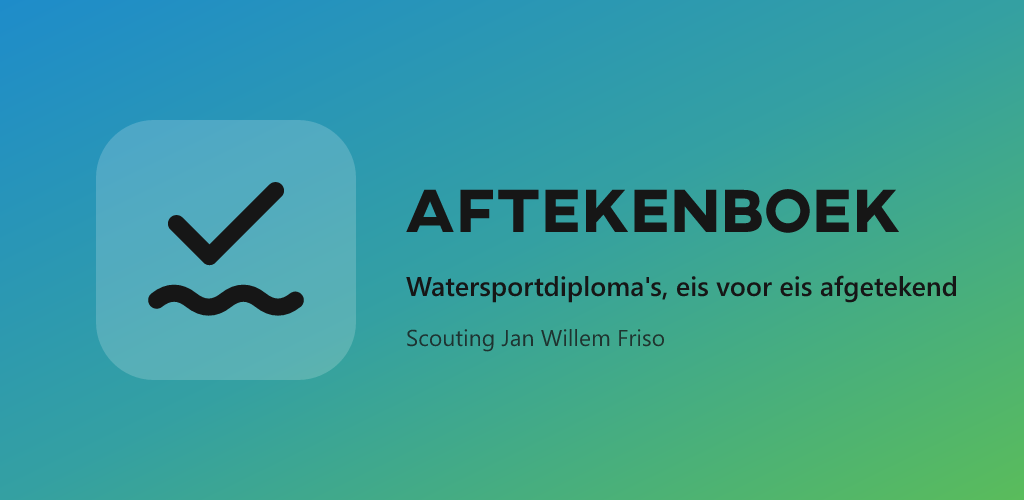
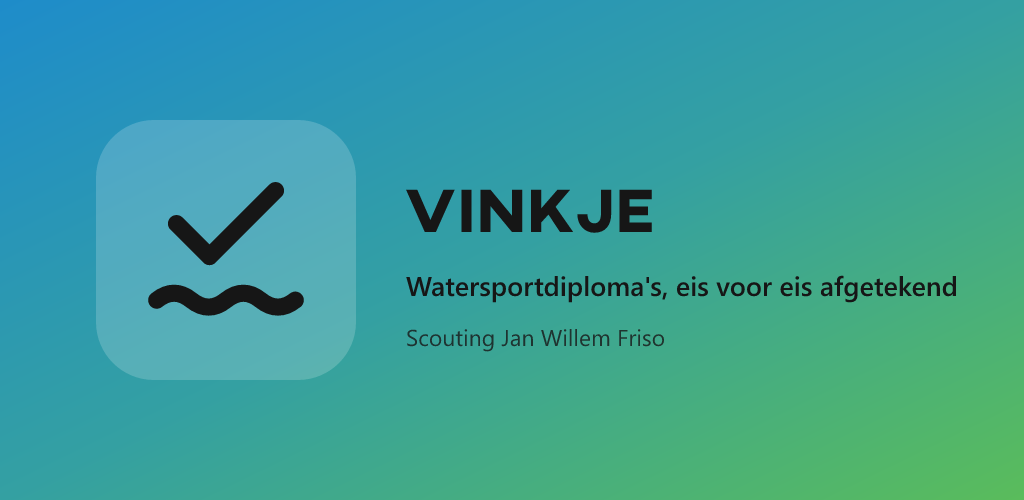
De app heet nu Vinkje
Alleen de naam die mensen zien. App-id, linkschema, Expo-project en opslagsleutels
blijven aftekenboek: die liggen vast bij de stores of in verstuurde mails.

Changed region(s): [[0.375, 0.36, 0.875, 0.48]]

diff --git a/admin/index.html b/admin/index.html
@@ -3,7 +3,7 @@
 <head>
 <meta charset="utf-8">
 <meta name="viewport" content="width=device-width, initial-scale=1">
-<title>Aftekenboek — beheer</title>
+<title>Vinkje — beheer</title>
 <style>
   :root {
     --bg: #f4f5f3; --card: #fff; --border: #e1e3df; --text: #161a17;
@@ -85,7 +85,7 @@
 
 <div id="signin">
   <div class="card">
-    <h2>Aftekenboek</h2>
+    <h2>Vinkje</h2>
     <p class="dim" id="signin-lead">Beheerpagina. Log in met je account.</p>
 
     <div id="name-row" class="hidden" style="margin-top:12px"><label for="name">Naam</label>
@@ -143,7 +143,7 @@
 
 <div id="app" class="hidden">
   <header>
-    <h1>Aftekenboek — beheer</h1>
+    <h1>Vinkje — beheer</h1>
     <nav>
       <button data-tab="leden" aria-current="true">Leden</button>
       <button data-tab="codes">Codes</button>

diff --git a/src/app/sign-in.tsx b/src/app/sign-in.tsx
@@ -99,7 +99,7 @@ export default function SignIn() {
       <PlainScreen>
         <View style={{ gap: space.xs, marginTop: space.xxl, marginBottom: space.lg }}>
           <Txt variant="title">
-            {mode === 'reset' ? 'Wachtwoord vergeten' : 'Aftekenboek'}
+            {mode === 'reset' ? 'Wachtwoord vergeten' : 'Vinkje'}
           </Txt>
           <Txt dim>{lead}</Txt>
         </View>

diff --git a/docs/privacybeleid.md b/docs/privacybeleid.md
@@ -1,15 +1,15 @@
-# Privacybeleid Aftekenboek
+# Privacybeleid Vinkje
 
-*Laatst bijgewerkt: 21 september 2026*
+*Laatst bijgewerkt: 22 september 2026*
 
-Aftekenboek is een app waarmee instructeurs van Scouting Jan Willem Friso bijhouden
+Vinkje is een app waarmee instructeurs van Scouting Jan Willem Friso bijhouden
 hoe ver vaarders zijn met hun watersportdiploma's. In dit privacybeleid staat welke
 gegevens de app gebruikt, waarom, wie ze kan zien, hoe lang ze bewaard worden en wat
 je rechten zijn.
 
 ## Wie is verantwoordelijk
 
-Scouting Jan Willem Friso is verantwoordelijk voor de gegevens in Aftekenboek.
+Scouting Jan Willem Friso is verantwoordelijk voor de gegevens in Vinkje.
 
 - Adres: Toepad 1, 2921 AZ Krimpen aan den IJssel
 - Vragen over privacy: **info@scoutingjwf.nl**
@@ -44,7 +44,7 @@ in de app. Van hen gebruiken we geen e-mailadres en geen andere contactgegevens.
   installatie hoort naar Expo, de dienst die de updates levert. Dat nummer zegt niets
   over wie je bent.
 
-**Wat we níet doen:** Aftekenboek bevat geen advertenties, geen analysediensten en
+**Wat we níet doen:** Vinkje bevat geen advertenties, geen analysediensten en
 geen trackers, en verkoopt of deelt geen gegevens voor marketing.
 
 ## Waarom we deze gegevens gebruiken

diff --git a/README.md b/README.md
@@ -1,4 +1,9 @@
-# Aftekenboek
+# Vinkje
+
+*Heette tot september 2026 Aftekenboek.* Achter de schermen heet hij nog steeds
+zo: de map, het Expo-project, de app-id `com.scoutingjwf.aftekenboek` en het
+linkschema `aftekenboek://`. Die liggen vast bij Apple en Google of staan in al
+verstuurde mails, en niemand ziet ze. Alleen de naam die mensen lezen is Vinkje.
 
 De vorderingenstaat voor de Watersport Academy-diploma's van een Scoutinggroep,
 als app voor iOS en Android. Een instructeur tekent op de steiger per eis af;

diff --git a/supabase/README.md b/supabase/README.md
@@ -79,7 +79,7 @@ Google verstuurd wordt komt meteen goed aan. Geen DNS-wijziging nodig.
     Username        het volledige adres waarvandaan verstuurd wordt
     Password        een Google app-wachtwoord van zestien tekens
     Sender email    hetzelfde adres als de username
-    Sender name     Scouting JWF Aftekenboek
+    Sender name     Scouting JWF Vinkje
 
 Drie dingen die hier misgaan:
 
